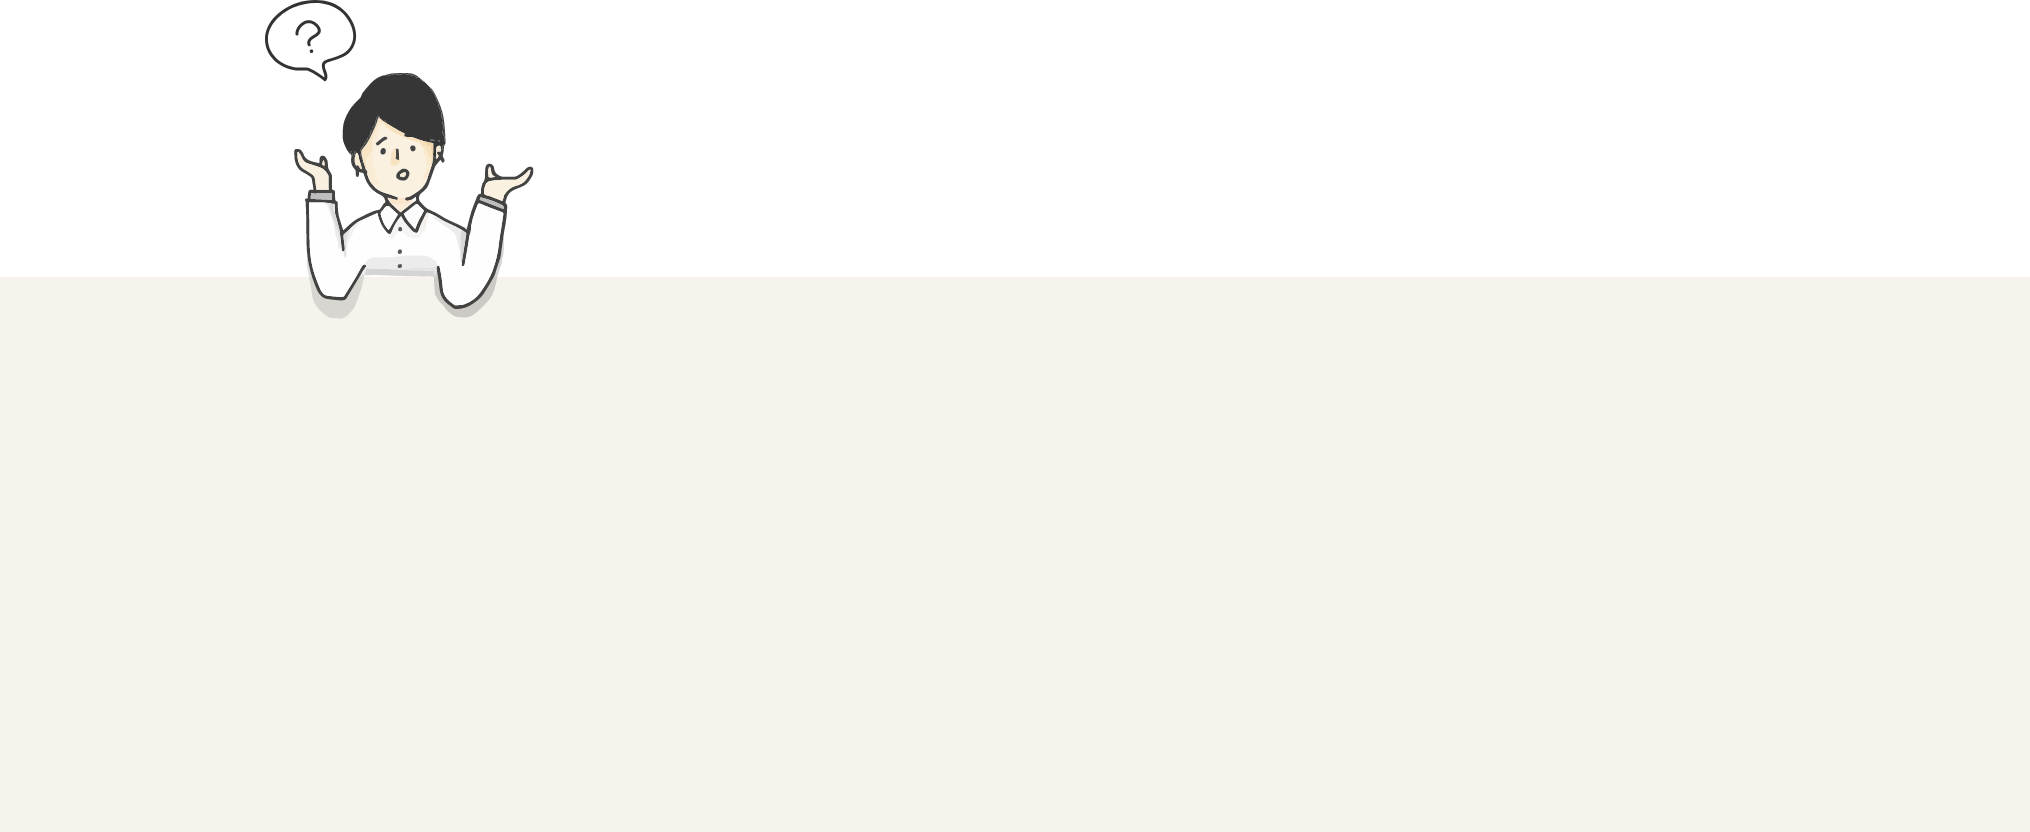
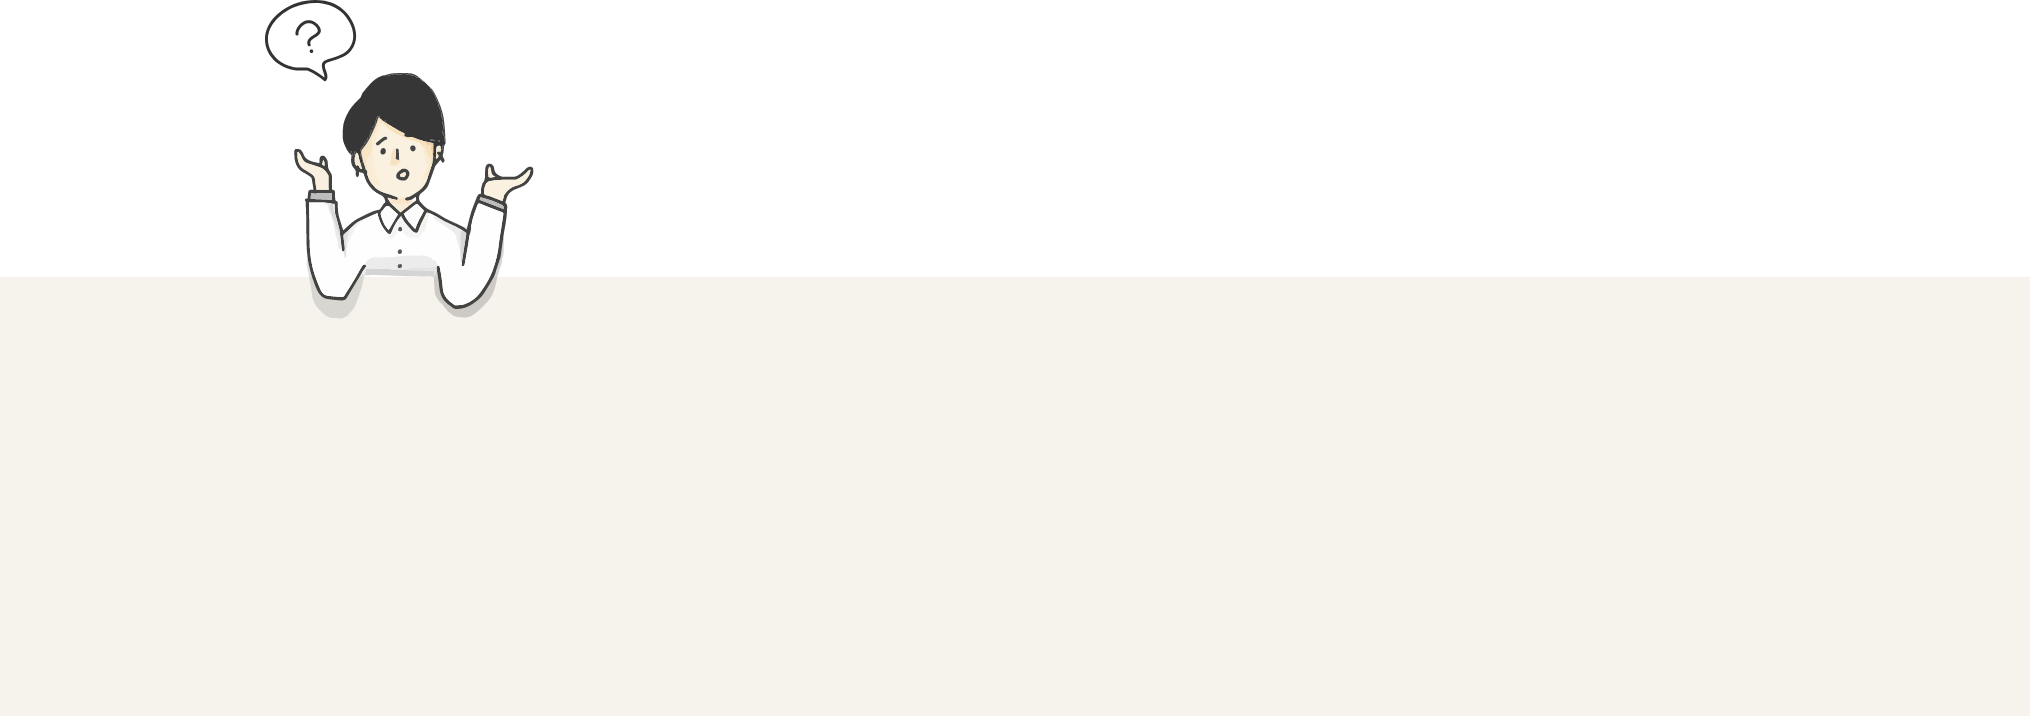
沒事～小修圖

Changed region(s): [[0.1241, 0.0, 0.2793, 0.4609]]

diff --git a/scss/pages_scss/index/index.scss b/scss/pages_scss/index/index.scss
@@ -93,7 +93,7 @@ div.header_wrap {
     //第一屏
     .index_test {
         background-image: url(../../../img/index/index_1st/1st_bg.png);
-        background-size: contain;
+        background-size: 100%;
         background-attachment: fixed;
         background-repeat: no-repeat;
         background-position: bottom;
